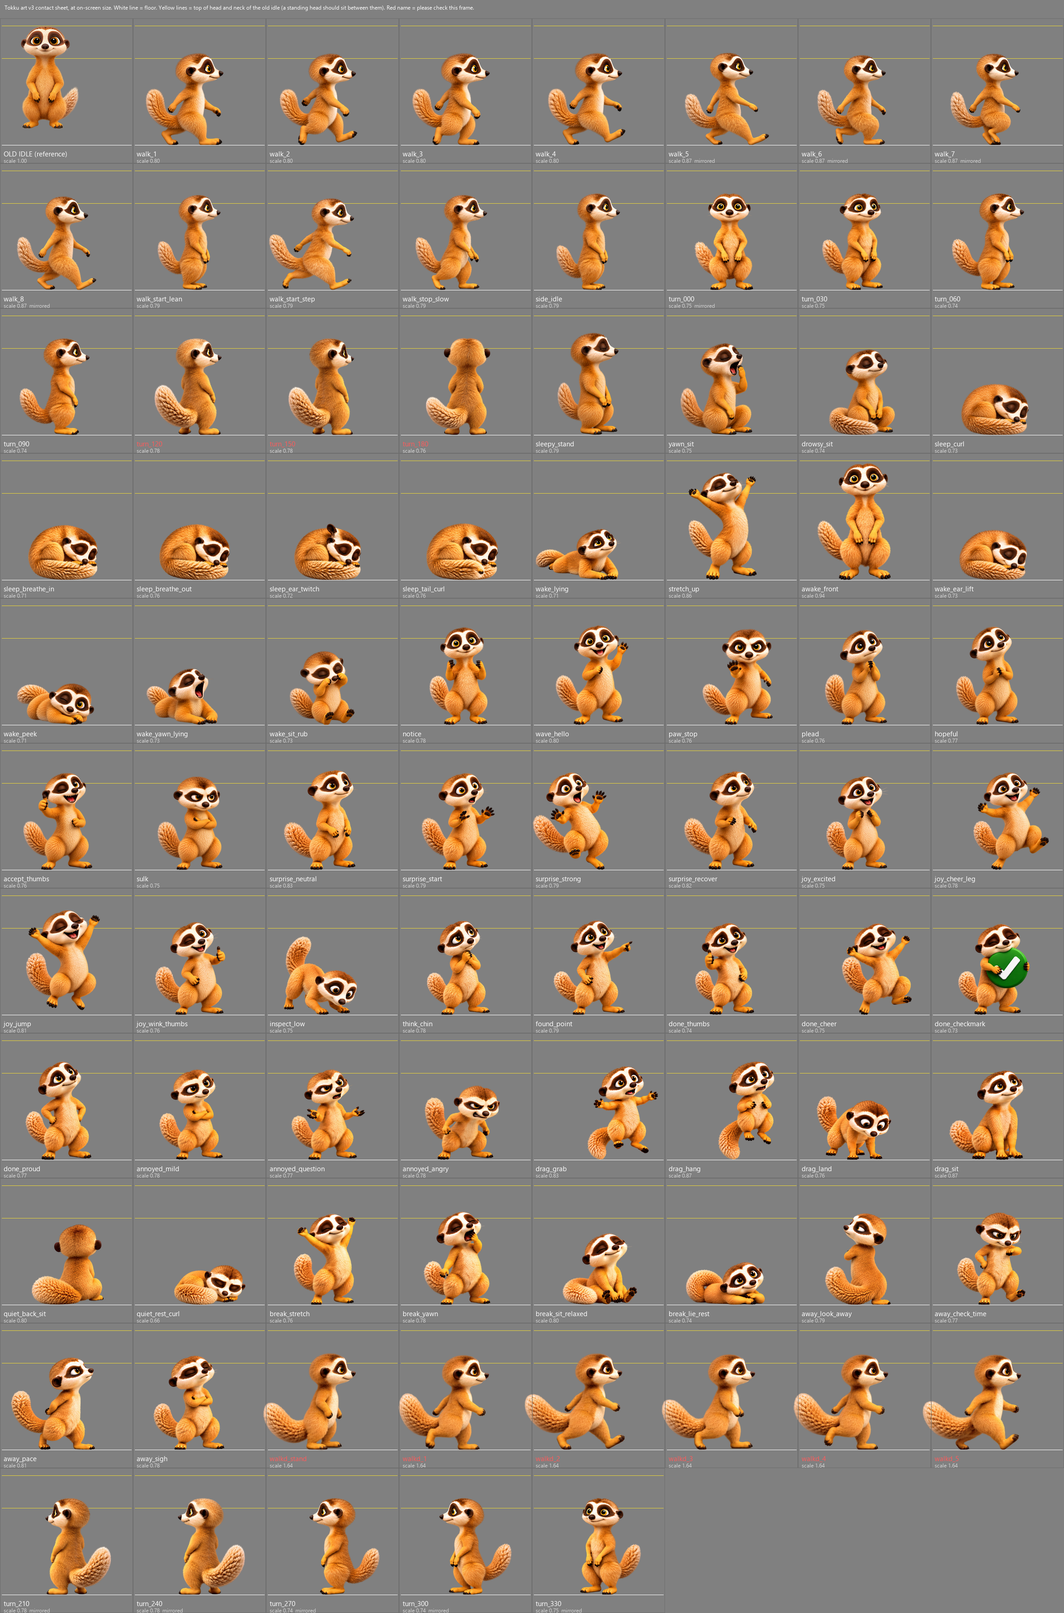
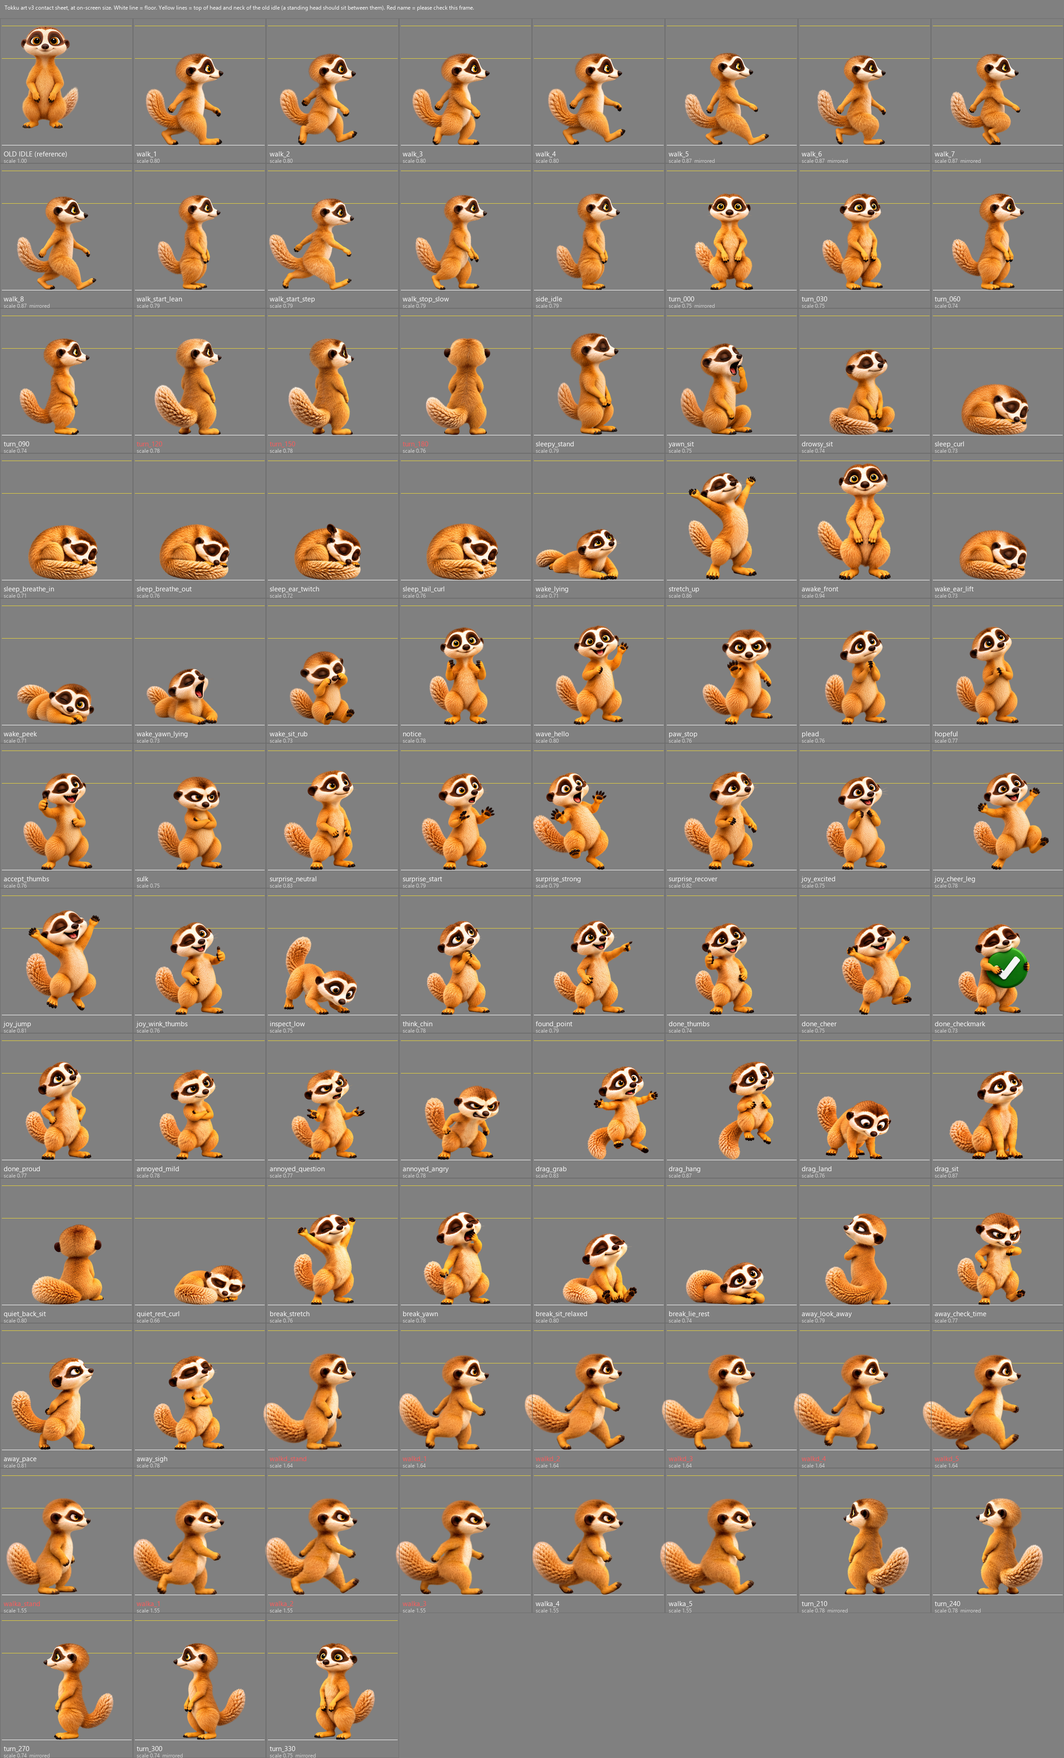
Angry walk and angry idle
- angry walk sheet (W02) used when he stomps to the middle of the screen and when he walks back after repeated drags
- angry idle: heads from the angry sheet placed on the idle body, with their own blink and open mouth, and a bristling tail
- while he is on watch over a video he waits in the angry idle instead of the arms crossed pose
- review page: buttons for the angry idle and the angry walk

diff --git a/src/renderer/character/tokku-character.js b/src/renderer/character/tokku-character.js
@@ -58,6 +58,7 @@
       this.sleeping = false; this.zs = []; this.zClock = 0;
       this.walk = null; this.mode = 'idle';
       this.minimalMotion = false; // focus sessions: fewer ear twitches, no extra movement
+      this.face = 'normal';       // 'angry': the idle shows the angry head (own blink and mouth) and a bristling tail
       this.faceSide = null;       // 'left' or 'right': poses drawn looking the other way are mirrored. null = as drawn
       this.shadowTarget = 1; this.shadowA = 1;   // ground shadow, faded out while he is carried
       this.varietyClock = 40 + Math.random() * 50;   // idle variety (a thought, a look around), never while focusing
@@ -157,16 +158,17 @@
     }
 
     // The desktop window moves, so he walks on the spot: turn to the side and step. walkDone() turns him back.
-    async walkInPlace(dir, speed = W_SPEED) {
+    async walkInPlace(dir, speed = W_SPEED, set = null) {      // set 'angry': the angry walk frames
       const tk = this._begin(); this.sleeping = false; this.mode = 'walking'; this.leanTarget = 0;
       if (!await this.turnTo(dir * 90, tk)) return false;
-      this.yaw = dir * 90; this.walk = { inPlace: true, dir, v: speed, dist: 0, frame: -1 };
+      const S = (set && this.c.walk[set]) || this.c.walk;
+      this.yaw = dir * 90; this.walk = { inPlace: true, dir, v: speed, dist: 0, frame: -1, frames: S.right, stop: S.stop };
       return true;
     }
     async walkDone() {
-      const dir = this.walk ? this.walk.dir : Math.sign(this.yaw) || 1;
+      const dir = this.walk ? this.walk.dir : Math.sign(this.yaw) || 1, stop = (this.walk && this.walk.stop) || this.c.walk.stop || [];
       const tk = this._begin(); this.mode = 'walking';
-      for (const n of this.c.walk.stop || []) { this.pose(n, 80, dir < 0, true); await this.wait(130); if (!this._alive(tk)) return false; }
+      for (const n of stop) { this.pose(n, 80, dir < 0, true); await this.wait(130); if (!this._alive(tk)) return false; }
       this.setVisual({ type: 'ring', idx: this.ringIdx(dir * 90) }, 100);
       if (!await this.turnTo(0, tk)) return false;
       this.rig(150); this.mode = 'idle'; return true;
@@ -273,7 +275,8 @@
       this.shadowA += (this.shadowTarget - this.shadowA) * Math.min(1, dt * 12);
       this.lean += (this.leanTarget - this.lean) * Math.min(1, dt * 6);
       // tail mood blends smoothly
-      const target = MOODS[this.mood]; const k = Math.min(1, dt * 2.5);
+      const target = MOODS[this.face === 'angry' ? 'annoyed' : this.mood];      // an angry face always comes with an annoyed tail
+      const k = Math.min(1, dt * 2.5);
       for (const key in target) this.tailP[key] = lerp(this.tailP[key], target[key], k);
       this.tailPhase += dt * this.tailP.hz * TAU;
       // hop
@@ -303,7 +306,7 @@
         if (this.mouthClock <= 0) { this.mouth = this.mouth ? 0 : 1; this.mouthClock = this.mouth ? 0.09 + Math.random() * 0.08 : 0.07 + Math.random() * 0.1; if (this.mouth) this.squashV += 1.2; }
       }
       // idle variety: never during focus, Quiet mode, talking or any action
-      if (this.mode === 'idle' && this.visual.type === 'rig' && !this.minimalMotion && this.alphaTarget === 1 && !this.talking) {
+      if (this.mode === 'idle' && this.face !== 'angry' && this.visual.type === 'rig' && !this.minimalMotion && this.alphaTarget === 1 && !this.talking) {
         this.varietyClock -= dt;
         if (this.varietyClock <= 0) { this.varietyClock = 40 + Math.random() * 50; this._variety(); }
       }
@@ -316,8 +319,9 @@
     _walkStep(dt) {
       const w = this.walk, vmax = W_SPEED, acc = 360, dec = 320, W = this.c.walk, frames = W.right, per = W.framePx || 11;
       if (w.inPlace) {
-        w.dist += w.v * dt; const f = Math.floor(w.dist / per) % frames.length;
-        if (f !== w.frame) { w.frame = f; this.pose(frames[f], W.fadeMs || 0, w.dir < 0, true); }
+        const fr = w.frames || frames;
+        w.dist += w.v * dt; const f = Math.floor(w.dist / per) % fr.length;
+        if (f !== w.frame) { w.frame = f; this.pose(fr[f], W.fadeMs || 0, w.dir < 0, true); }
         return;
       }
       const rem = Math.abs(w.tx - this.x);
@@ -384,6 +388,12 @@
       let ang = tp.base + Math.sin(this.tailPhase) * tp.amp + (tp.jit ? (Math.sin(this.time * 113) * 0.5 + Math.sin(this.time * 71)) * tp.jit : 0);
       ang = clamp(ang, lim[0], lim[1]) * (R.tailSign || 1);    // tailSign -1: the tail is on the left of the body
       drawRot(g, I[R.layers.tail], P.tail, ang, tp.scale);
+      if (this.face === 'angry' && R.angry && I[R.angry.open]) {      // angry idle: the body without its head, plus one whole angry head
+        g.drawImage(I[R.angry.body], 0, 0);
+        const k = (this.talking && this.mouth) ? 'talk' : this.blink === 2 ? 'closed' : this.blink === 1 ? 'half' : 'open';
+        g.drawImage(I[R.angry[k]] || I[R.angry.open], 0, 0);
+        return this.buf;
+      }
       drawRot(g, I[R.layers.ear_l], P.earL, this.ear.l, 1);
       drawRot(g, I[R.layers.ear_r], P.earR, this.ear.r, 1);
       g.drawImage(I[R.layers.body], 0, 0);

diff --git a/src/renderer/character/assets/character.data.js b/src/renderer/character/assets/character.data.js
@@ -142,7 +142,14 @@ window.TOKKU_CHARACTER = {
    14
   ],
   "tailSign": -1,
-  "note": "Art v3 idle. Draw order: tail, ear_l, ear_r, body, overlays. The tail is on the left, so tailSign is -1. Blink and mouth overlays are soft-edged patches cut from the other idle drawings."
+  "note": "Art v3 idle. Draw order: tail, ear_l, ear_r, body, overlays. The tail is on the left, so tailSign is -1. Blink and mouth overlays are soft-edged patches cut from the other idle drawings.",
+  "angry": {
+   "body": "rig_v3/body_nohead.png",
+   "open": "rig_v3/angry_open.png",
+   "half": "rig_v3/angry_half.png",
+   "closed": "rig_v3/angry_closed.png",
+   "talk": "rig_v3/angry_talk.png"
+  }
  },
  "poses": {
   "walk_1": {
@@ -404,7 +411,7 @@ window.TOKKU_CHARACTER = {
    "h": 328,
    "anchorX": 383,
    "feetY": 320,
-   "scale": 0.706
+   "scale": 0.707
   },
   "wake_yawn_lying": {
    "file": "v3/wake_yawn_lying.png",
@@ -808,6 +815,54 @@ window.TOKKU_CHARACTER = {
    "feetY": 315,
    "scale": 1.639
   },
+  "walka_stand": {
+   "file": "v3/walka_stand.png",
+   "w": 304,
+   "h": 347,
+   "anchorX": 214,
+   "feetY": 339,
+   "scale": 1.546
+  },
+  "walka_1": {
+   "file": "v3/walka_1.png",
+   "w": 326,
+   "h": 342,
+   "anchorX": 234,
+   "feetY": 334,
+   "scale": 1.546
+  },
+  "walka_2": {
+   "file": "v3/walka_2.png",
+   "w": 338,
+   "h": 348,
+   "anchorX": 240,
+   "feetY": 339,
+   "scale": 1.546
+  },
+  "walka_3": {
+   "file": "v3/walka_3.png",
+   "w": 338,
+   "h": 341,
+   "anchorX": 248,
+   "feetY": 333,
+   "scale": 1.546
+  },
+  "walka_4": {
+   "file": "v3/walka_4.png",
+   "w": 329,
+   "h": 344,
+   "anchorX": 237,
+   "feetY": 336,
+   "scale": 1.546
+  },
+  "walka_5": {
+   "file": "v3/walka_5.png",
+   "w": 345,
+   "h": 345,
+   "anchorX": 254,
+   "feetY": 337,
+   "scale": 1.546
+  },
   "turn_210": {
    "file": "v3/turn_210.png",
    "w": 464,
@@ -1062,7 +1117,21 @@ window.TOKKU_CHARACTER = {
   ],
   "framePx": 30,
   "fadeMs": 70,
-  "note": "From the detailed walk sheet (W01), right facing row: stride, passing, stride, passing. The frame advances every framePx screen pixels, with a short blend. Mirror for left."
+  "note": "From the detailed walk sheet (W01), right facing row: stride, passing, stride, passing. The frame advances every framePx screen pixels, with a short blend. Mirror for left.",
+  "angry": {
+   "right": [
+    "walka_2",
+    "walka_3",
+    "walka_5",
+    "walka_1"
+   ],
+   "start": [
+    "walka_stand"
+   ],
+   "stop": [
+    "walka_stand"
+   ]
+  }
  },
  "scaleNote": "Per-pose \"scale\" gives every frame the same head size. Measured by tools/cut_sprites.py as the biggest circle that fits in the head. Manual corrections: art/scale-overrides.json.",
  "sequences": {

diff --git a/src/renderer/character/tests/brain.test.js b/src/renderer/character/tests/brain.test.js
@@ -92,18 +92,18 @@ const states = b => b.log.map(e => e.ev);
     await run(2); check('10d then he looks away', ch.visual.name === 'away_look_away');
     await watch(200); check('10e no nudge during the five minutes', !b.nudging);
     await watch(110); check('10f time is up: checks his watch, no buttons', b.nudging && ch.visual.name === 'away_check_time' && said.at(-1).actions.join() === '', said.at(-1).text);
-    b._actionTimeout('bargain_over'); await watch(5); check('10g still watching a minute later: arms crossed, on watch', !b.nudging && b.watching && ch.visual.name === 'annoyed_mild');
+    b._actionTimeout('bargain_over'); await watch(5); check('10g still watching a minute later: angry idle, on watch', !b.nudging && b.watching && ch.visual.type === 'rig' && ch.face === 'angry');
     await watch(60); check('10i third nudge in 30 min: angry pose, firm line', b.nudging && ch.visual.name === 'annoyed_angry', said.at(-1).text);
     check('10h there is no Back to work button anywhere', !said.some(s => s.actions.includes('backtowork')));
     const n = said.length; b.activity('work', null, 3); await run(0.5);
     check('10j video closed: bubble gone, thumbs up, kind line, watch ends', !b.nudging && !b.watching && said.length === n + 1 && ch.visual.name === 'accept_thumbs', said.at(-1).text);
-    await run(3); check('10k back on the idle rig, still focusing', ch.visual.type === 'rig' && b.state === 'focusing');
+    await run(3); check('10k back on the smiling idle rig, still focusing', ch.visual.type === 'rig' && ch.face === 'normal' && b.state === 'focusing');
   }
   { const { ch, b, said, run } = make();      // ignoring him: he never goes back to the smiling idle while the video is open
     const watch = async (sec) => { for (let i = 0; i < sec; i++) { b.activity('video', 'Hotstar', 1); await run(1 / 60, 60); } };
     b.startFocus(); await run(0.3); await watch(50);
     b._actionTimeout('nudge_gentle'); await watch(5);
-    check('10n ignored nudge: arms crossed, not the idle', !b.nudging && b.watching && ch.visual.name === 'annoyed_mild');
+    check('10n ignored nudge: the angry idle, not the smiling one', !b.nudging && b.watching && ch.visual.type === 'rig' && ch.face === 'angry');
     await watch(60); check('10o asks again after a minute, naming the app', b.nudging && /Hotstar/.test(said.at(-1).text) && !b.blocked, said.at(-1).text);
     b._actionTimeout('nudge_gentle'); check('10p ignored twice: he goes to the middle of the screen', b.blocked === true);
     b.activity('work', null, 3); check('10q video closed: he may go home again', b.blocked === false && b.ignored === 0);

diff --git a/src/renderer/app.js b/src/renderer/app.js
@@ -20,7 +20,7 @@
   let char, images;
   try {
     char = await (await fetch(BASE + 'character.json')).json();
-    const files = new Set([...Object.values(char.rig.layers), ...Object.values(char.rig.overlays)]);
+    const files = new Set([...Object.values(char.rig.layers), ...Object.values(char.rig.overlays), ...Object.values(char.rig.angry || {})]);
     Object.values(char.poses).forEach(p => { if (!p.legacy) files.add(p.file); });   // the turn ring uses the same files
     images = Object.fromEntries(await Promise.all([...files].map(loadImage)));
     status = 'running, ' + files.size + ' images';
@@ -149,7 +149,9 @@
     const dir = Math.sign(targetX(want) - window.screenX);
     if (!dir) { place = want; return; }
     moving = true; ui.hide(); showHover(false);
-    ch.walkInPlace(dir, WALK_SPEED);
+    const angry = want === 'center' || (place === 'dropped' && dragTimes.length >= 2);      // he stomps over, or stomps back
+    ch.forceAngry = angry; ch.face = angry ? 'angry' : ch.face;
+    ch.walkInPlace(dir, WALK_SPEED, angry ? 'angry' : null);
     guard.walk(want);
   }
   async function onArrived(where) {
@@ -166,7 +168,7 @@
       return;
     }
     place = where;
-    await ch.walkDone(); if (gen !== moveGen) return;
+    await ch.walkDone(); ch.forceAngry = false; if (gen !== moveGen) return;
     moving = false;
     if (brain.quiet) ch.faceAway();                               // Quiet mode started while he was walking
     if (where === 'center' && brain.dist.app) brain.dist.graceUntil = brain.t;   // he speaks up as soon as he gets there

diff --git a/art/review/sequences.js b/art/review/sequences.js
@@ -9,7 +9,7 @@
   let speed = 1;
 
   // ---- images
-  const files = new Set([...Object.values(char.rig.layers), ...Object.values(char.rig.overlays)]);
+  const files = new Set([...Object.values(char.rig.layers), ...Object.values(char.rig.overlays), ...Object.values(char.rig.angry || {})]);
   Object.values(char.poses).forEach(p => { if (!p.legacy) files.add(p.file); });
   const images = {};
   let failed = [];
@@ -85,6 +85,8 @@
     'Annoyed 1': () => ch.annoyed(1), 'Annoyed 2': () => ch.annoyed(2), 'Annoyed 3': () => ch.annoyed(3),
     'Celebrate': () => ch.celebrate(), 'Rest (break)': () => ch.rest(), 'Stretch up': () => ch.stretchUp(),
     'Sleep': () => ch.sleep(), 'Wake': () => ch.wake(), 'Face away (Quiet)': () => ch.faceAway(), 'Face back': () => ch.faceBack(),
+    'Angry idle (blink, tail)': () => { ch.forceAngry = !ch.forceAngry; ch.face = ch.forceAngry ? 'angry' : 'normal'; ch.idle(); },
+    'Angry walk on the spot': async () => { await ch.walkInPlace(1, 200, 'angry'); setTimeout(() => ch.walkDone(), 4000 / speed); },
     'Talk (mouth)': () => { ch.talk(true); setTimeout(() => ch.talk(false), 2500 / speed); },
     'Blink': () => { ch.blinkClock = 0; },
     'Idle: happy tail wag': () => { ch.idle(); ch.setMood('happy'); }, 'Idle: calm tail': () => { ch.idle(); ch.setMood('calm'); },

diff --git a/src/renderer/character/tokku-brain.js b/src/renderer/character/tokku-brain.js
@@ -57,6 +57,7 @@
     tick(dtMs) {
       this.t += dtMs;
       if (this.timer && this.t >= this.timer.endsAt) { const tm = this.timer; this.timer = null; this._due(tm.kind); }
+      this.ch.face = ((this.watching && !this.bargaining) || this.ch.forceAngry) ? 'angry' : 'normal';   // on watch over a video: angry idle
       if (this.ui.onTimer) this.ui.onTimer(this.timerInfo());
     }
     timerInfo() { if (!this.timer) return null; return { kind: this.timer.kind, remainingMs: Math.max(0, this.timer.endsAt - this.t), state: this.state }; }
@@ -90,7 +91,7 @@
         this.nudging = false; this.dist.nudged = false; this.dist.graceUntil = this.t + this.o.renudgeSec * 1000;
         this.ignored++;
         if (this.ignored >= this.o.blockAfterIgnored && !this.blocked) { this.blocked = true; this._ev('block'); }   // the host walks him to the middle
-        if (!this.quiet) this.ch.show('annoyed_mild'); return;
+        if (!this.quiet) { this.ch.face = 'angry'; this.ch.idle(); } return;      // waits in the angry idle, blinking
       }
       if (this.state === 'attention') this._setTimer('remind', this.o.remindMin);
     }

diff --git a/src/renderer/character/tests/assets.test.js b/src/renderer/character/tests/assets.test.js
@@ -50,7 +50,7 @@ function feetRow(png) {
 }
 
 const v3 = Object.entries(char.poses).filter(([, p]) => !p.legacy);
-check('there are 84 art v3 frames', v3.length === 84, String(v3.length));
+check('there are 90 art v3 frames', v3.length === 90, String(v3.length));
 
 // 1. every frame named in a sequence exists in character.json and on disk
 for (const [name, q] of Object.entries(char.sequences)) {

diff --git a/tools/build_idle_rig.py b/tools/build_idle_rig.py
@@ -28,12 +28,12 @@ OLD_IDLE_HEAD_RADIUS = 87.2      # head size every frame is matched to (see cut_
 IDLE_BOOST = 1.07                # the idle looked a little small next to the other frames (review, 12 Oct)
 
 
-def dark_parts(rgb, a):
+def dark_parts(rgb, a, head_frac=0.5):
     """Find the dark face parts: two eye patches, two ears, nose. Returns dict of masks."""
     _, _, v = cs.hsv(rgb)
     dark = cv2.morphologyEx(((a > 0.8) & (v < 0.5)).astype(np.uint8), cv2.MORPH_OPEN, cs.disk(3))
     ys = np.flatnonzero((a > 0.5).any(1))
-    dark[int(ys[0] + 0.5 * (ys[-1] - ys[0])):] = 0          # head only (claws and toes are dark too)
+    dark[int(ys[0] + head_frac * (ys[-1] - ys[0])):] = 0    # head only (claws and toes are dark too)
     n, lab, st, cen = cv2.connectedComponentsWithStats(dark, connectivity=8)
     comps = sorted(range(1, n), key=lambda i: -st[i, cv2.CC_STAT_AREA])
     p1, p2 = sorted(comps[:2], key=lambda i: cen[i][0])
@@ -43,7 +43,7 @@ def dark_parts(rgb, a):
     ear_l = max((i for i in rest if cen[i][0] < x_lo + 10), key=lambda i: st[i, cv2.CC_STAT_AREA])
     ear_r = max((i for i in rest if cen[i][0] > x_hi - 10), key=lambda i: st[i, cv2.CC_STAT_AREA])
     mid = [i for i in rest if x_lo < cen[i][0] < x_hi and i not in (ear_l, ear_r)]
-    nose = max(mid, key=lambda i: st[i, cv2.CC_STAT_AREA])
+    nose = max(mid, key=lambda i: st[i, cv2.CC_STAT_AREA]) if head_frac <= 0.5 else min(mid, key=lambda i: cen[i][1])   # head-only pictures: the nose is above an open mouth
     return {"patch_l": lab == p1, "patch_r": lab == p2, "ear_l": lab == ear_l, "ear_r": lab == ear_r, "nose": lab == nose,
             "cen": {"ear_l": cen[ear_l], "ear_r": cen[ear_r], "nose": cen[nose]}}
 
@@ -154,6 +154,39 @@ def main():
     save("body.png", tint(base, A), A * (1 - cut))
     save("idle_full.png", tint(base, A), A)
 
+    # ---- angry idle: four heads from the angry sheet (eyes open, half, closed, mouth open), sized and placed on the idle body
+    angry = None
+    heads_file = ROOT / "art" / "idle" / "angry_heads.png"
+    if heads_file.exists():
+        heads = cs.cut_figures_alpha(heads_file, 12, "ANGRY", log, rows=2)
+        hh = cs.head_height(A)
+        ref_pts = np.array([parts["cen"][k] for k in ("ear_l", "ear_r", "nose")], np.float32)
+        ref_d = float(np.linalg.norm(ref_pts[0] - ref_pts[1]))
+        neck = hh[1] if hh else int(ref_pts[2][1] + 0.5 * ref_d)
+        yy = np.arange(H, dtype=np.float32)[:, None]
+        head_fade = np.clip((neck + 22 - yy) / 26.0, 0, 1)          # the head picture fades out across the neck
+        body_keep = np.clip((yy - (neck - 30)) / 5.0, 0, 1)        # the body picture without its own head
+        save("body_nohead.png", tint(base, A), A * (1 - cut) * body_keep)
+        angry = {"body": "rig_v3/body_nohead.png"}
+        def head_box(al, rows):      # left, right and top of the head outline (ears included)
+            m = al[:rows] > 0.5
+            xs, ys = np.flatnonzero(m.any(0)), np.flatnonzero(m.any(1))
+            return float(xs[0]), float(xs[-1]), float(ys[0])
+        rl, rr, rt = head_box(A, neck)
+        for key, idx in (("open", 0), ("half", 2), ("closed", 1), ("talk", 8)):
+            rgb, a, _ = heads[idx]
+            hl, hr, ht = head_box(a, int(0.72 * a.shape[0]))
+            k = (rr - rl) / (hr - hl)                                # same head width as the idle head
+            size = (max(1, round(a.shape[1] * k)), max(1, round(a.shape[0] * k)))
+            rgb2, a2 = cv2.resize(rgb, size, interpolation=cv2.INTER_AREA), cv2.resize(a, size, interpolation=cv2.INTER_AREA)
+            off = ((rl + rr) / 2 - k * (hl + hr) / 2, rt - k * ht)   # same centre line, same top of the head
+            C, Al = on_canvas(rgb2, a2, W, H, int(round(off[0])), int(round(off[1])))
+            st = cs.fur_stats(C, Al)
+            C = cs.colour_match(C, Al, float(np.clip(ref_h - st[0], -8, 8)), float(np.clip(ref_s / st[1], 0.80, 1.10))) if st else C
+            save(f"angry_{key}.png", C, Al * head_fade)
+            angry[key] = f"rig_v3/angry_{key}.png"
+            print(f"  angry head '{key}': scaled x{k:.3f}, placed at ({off[0]:+.0f}, {off[1]:+.0f})")
+
     feet = cs.feet_row(base, A)
     radius = cs.head_radius(base, A)
     char = json.loads(cs.CHAR_JSON.read_text(encoding="utf-8"))
@@ -170,6 +203,8 @@ def main():
         "note": "Art v3 idle. Draw order: tail, ear_l, ear_r, body, overlays. The tail is on the left, so tailSign is -1. "
                 "Blink and mouth overlays are soft-edged patches cut from the other idle drawings.",
     }
+    if angry:
+        char["rig"]["angry"] = angry
     cs.write_character(char)
     print(f"rig: {W}x{H}, feet row {feet}, head radius {radius:.1f}, scale {char['rig']['scale']}, pivots {pivots}")
     print(f"colour: hue {mh:.1f} sat {ms:.3f} -> shift {dh:+.1f} deg, sat x{ks:.2f}")

diff --git a/tools/cut_sprites.py b/tools/cut_sprites.py
@@ -37,7 +37,7 @@ CHAR_JSON = ASSETS / "character.json"
 MODEL = "u2net"                      # compared with isnet-general-use on S01 and S06: fewer ragged bits in white face fur
 MARGIN = 6                           # transparent pixels kept around each trimmed frame
 AIRBORNE = {"joy_jump", "drag_grab", "drag_hang"}
-WALK_LIKE = ("walk_", "walkd_", "side_idle")   # anchor on the torso, not the feet, so the body does not jitter
+WALK_LIKE = ("walk_", "walkd_", "walka_", "side_idle")   # anchor on the torso, not the feet, so the body does not jitter
 SCALE_FALLBACK = {"S07": "S06"}      # sheets with no measurable frame borrow the scale of another sheet
 HEAD_SHEETS = {"S05"}                # back views hide the eye patches: measure head height (top to neck) instead
 CALIB_SHEETS = ("S01", "S02", "S03")  # clean side views: used to tie the eye patch measure to real head height
@@ -788,10 +788,11 @@ def main():
             k = stand * walking / float(np.mean([tall(n) for n in by_sheet[sid]]))
             for n in by_sheet[sid]:
                 frames[n]["scale"] = k
-        if "W01" in by_sheet:      # the detailed walk sheet: one scale for the whole sheet, from its standing frame
-            k = stand / tall("walkd_stand")
-            for n in by_sheet["W01"]:
-                frames[n]["scale"] = k
+        for sid, standing in (("W01", "walkd_stand"), ("W02", "walka_stand")):      # detailed walk sheets: one scale per sheet, from its standing frame
+            if sid in by_sheet:
+                k = stand / tall(standing)
+                for n in by_sheet[sid]:
+                    frames[n]["scale"] = k
         print(f"  standing height {stand:.0f} px: turn and walk frames scaled to it")
 
     # ---- mirror and derived frames
@@ -862,6 +863,8 @@ def main():
                     "framePx": 30, "fadeMs": 70,
                     "note": "From the detailed walk sheet (W01), right facing row: stride, passing, stride, passing. "
                             "The frame advances every framePx screen pixels, with a short blend. Mirror for left."}
+    if "walka_stand" in frames:
+        char["walk"]["angry"] = {"right": ["walka_2", "walka_3", "walka_5", "walka_1"], "start": ["walka_stand"], "stop": ["walka_stand"]}
     char["sequences"] = SEQUENCES
     char["scaleNote"] = ("Per-pose \"scale\" gives every frame the same head size. Measured by tools/cut_sprites.py as the biggest "
                          "circle that fits in the head. Manual corrections: art/scale-overrides.json.")
